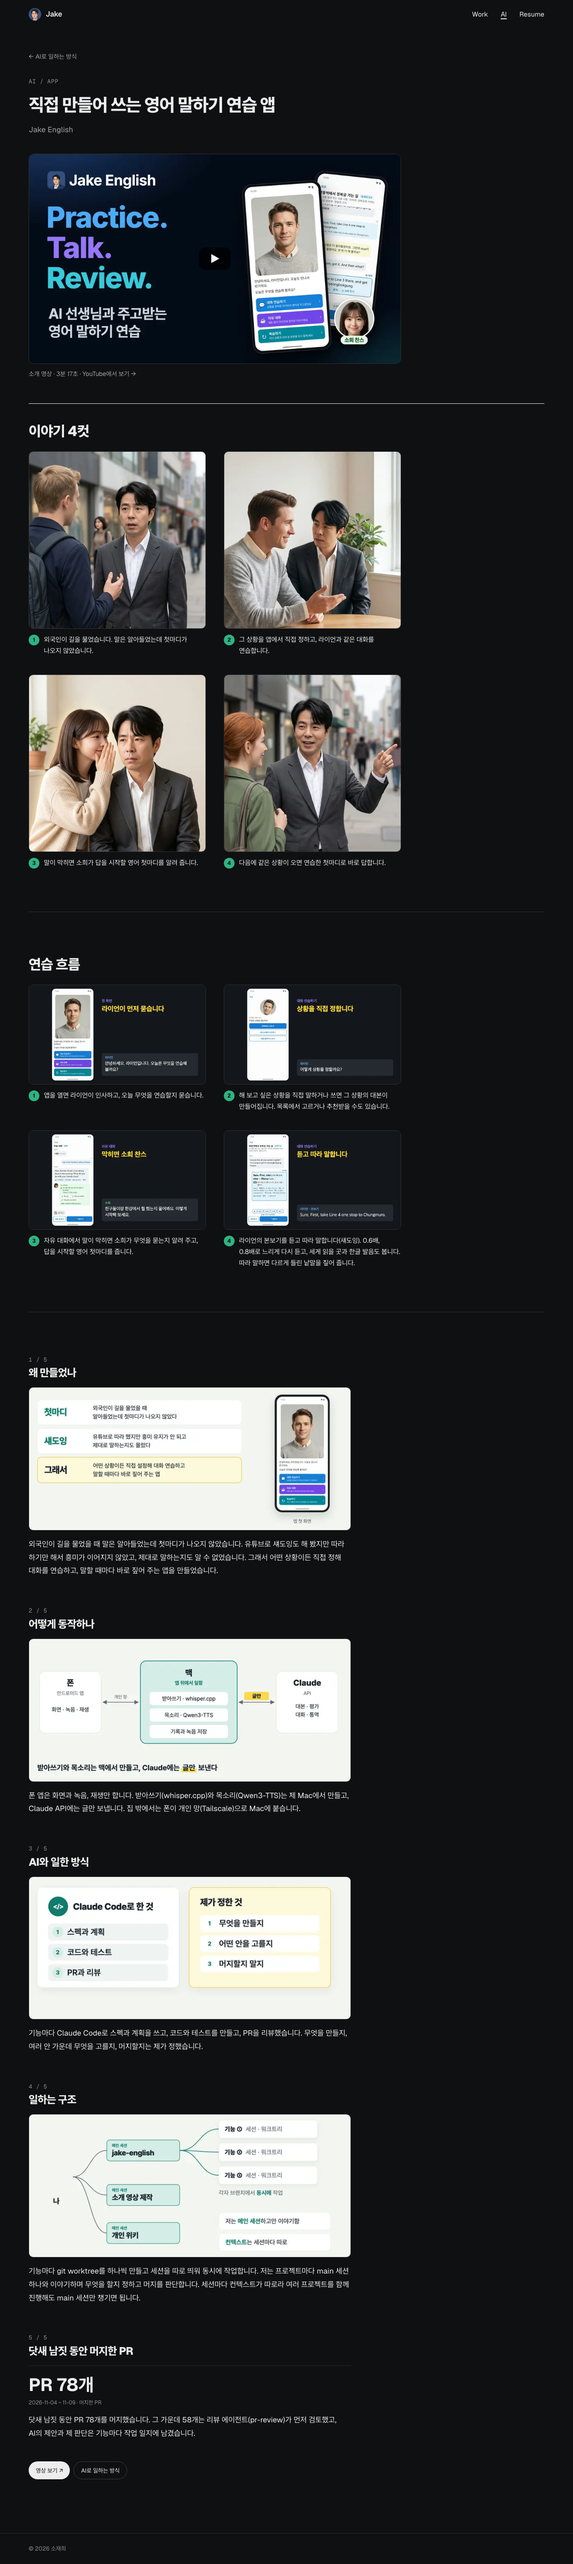
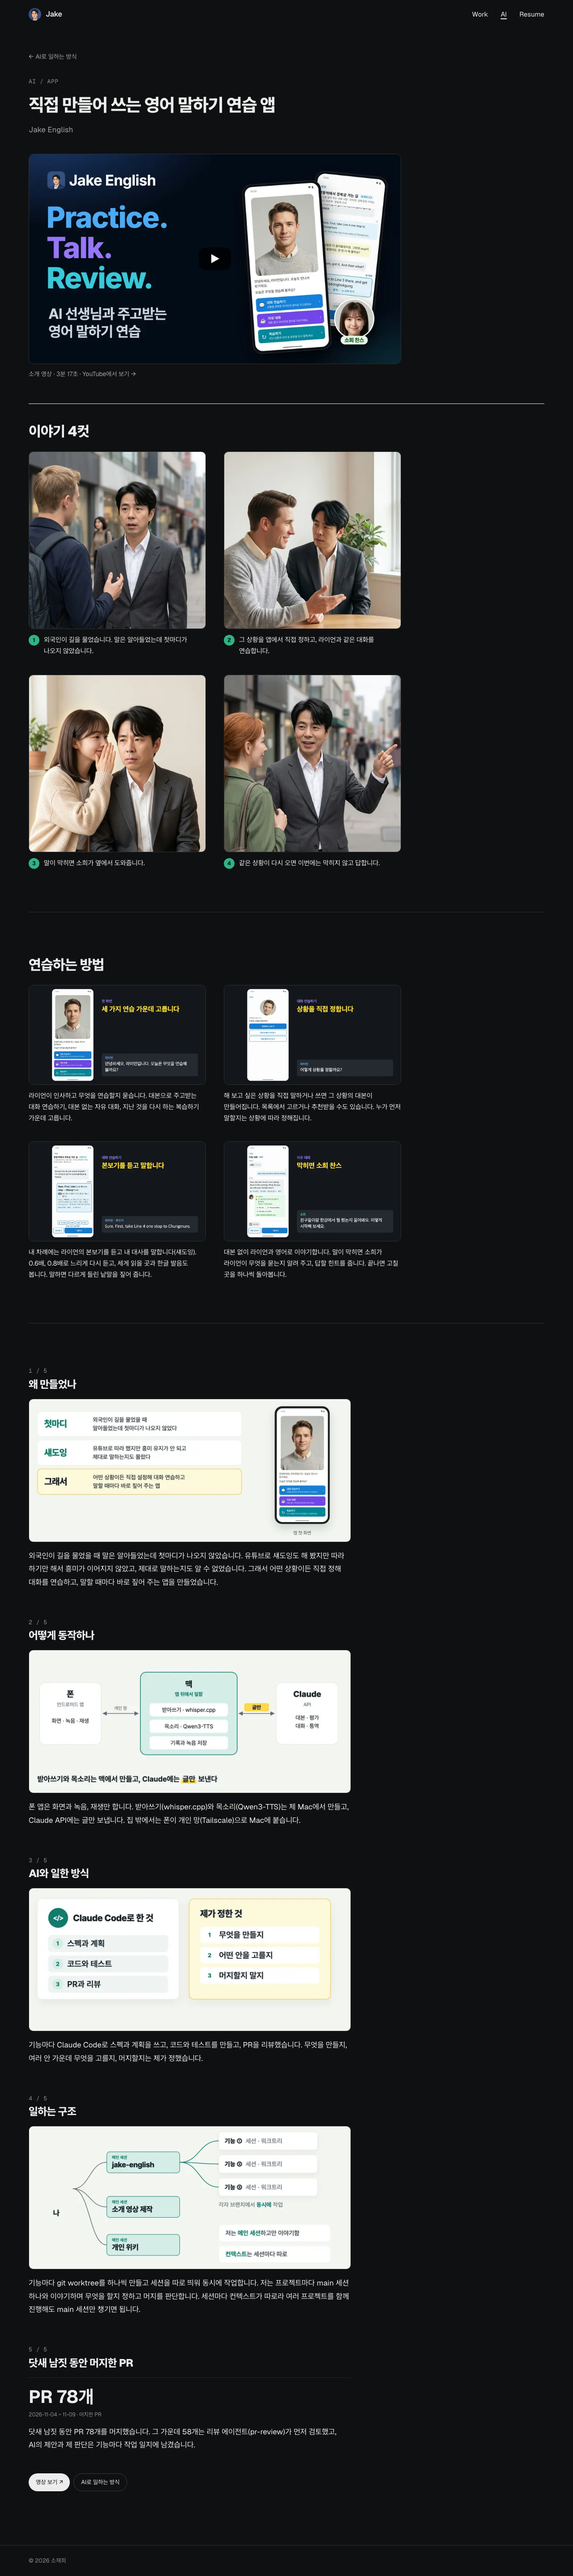
docs: refresh the Jake English page captures for the practice section

diff --git a/docs/superpowers/specs/2026-11-11-ai-jake-english-design.md b/docs/superpowers/specs/2026-11-11-ai-jake-english-design.md
@@ -125,7 +125,7 @@ Jake English는 제가 쓰려고 직접 만든 영어 말하기 연습 앱입니
 
 - 이야기 4컷 절의 소제목 "이야기 4컷"과 칸 설명 W11, W12는 후보 가운데 추천안으로 정했고(AI 판단), 사용자가 개발 서버의 화면을 보고 확인했습니다(2026-11-11). W13, W14는 2026-11-11에 사용자가 고쳐 썼습니다. 소희가 늘 첫마디를 알려 주는 것은 아니기 때문입니다.
 - 2026-11-11에 연습하는 방법 절의 순서, 그림 제목 둘(첫 화면 "세 가지 연습 가운데 고릅니다", 본보기 칸 "본보기를 듣고 말합니다"), 소제목(연습 흐름에서 연습하는 방법으로), 칸 설명 넷(W5~W8)을 모두 바꿨고 번호를 뺐습니다. 개발 서버를 본 사용자가 번호 순서가 라이언이 늘 먼저 묻는 흐름처럼 읽힌다고 짚었기 때문입니다. 앱 코드를 확인하니 연습은 세 가지(대화 연습하기, 자유 대화, 복습하기)이고, 대화 연습하기에서 누가 먼저 말할지는 상황에 따라 다르며, 소희 찬스는 자유 대화에만 있고, 자유 대화가 끝나면 대화 돌아보기가 고칠 곳을 하나씩 짚어 줍니다. 새 소제목과 칸 설명은 이 사실에서 정한 추천안입니다(AI 판단). W7이 가리키던 소희 찬스 설명은 W8로 옮겼습니다.
-- 4컷 그림 안의 제목(라이언이 먼저 묻습니다, 상황을 직접 정합니다, 막히면 소희 찬스, 듣고 따라 말합니다)과 장 소제목(왜 만들었나, 어떻게 동작하나, AI와 일한 방식, 일하는 구조)은 영상과 비교판에서 쓴 그대로입니다.
+- 장 소제목(왜 만들었나, 어떻게 동작하나, AI와 일한 방식, 일하는 구조)은 영상과 비교판에서 쓴 그대로입니다. 앱 화면 4컷 그림 안의 제목은 처음에 비교판에서 쓴 것을 그대로 썼고, 2026-11-11에 둘을 바꿨습니다. 지금은 순서대로 세 가지 연습 가운데 고릅니다, 상황을 직접 정합니다, 본보기를 듣고 말합니다, 막히면 소희 찬스입니다.
 
 ## 만드는 사람에게 맡기는 것
 
